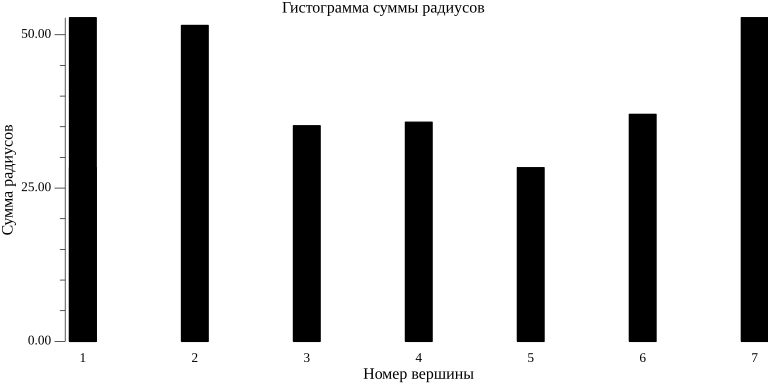
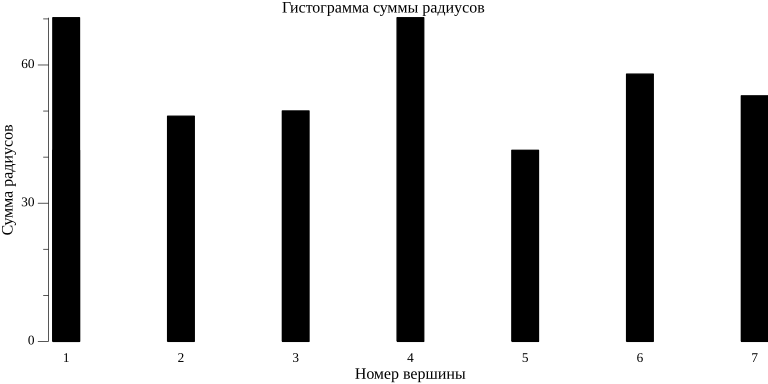
ВСЁ

diff --git a/app/results.html b/app/results.html
@@ -8,3 +8,44 @@
 </head>
 <body>
 	<h1>Результаты</h1>
+
+	<h2>Исходная таблица данных</h2>
+	<table border="1">
+		<tr><th>Множество рёбер</th><th>Дата</th><th></th><th></th><th></th><th></th><th></th><th>Дата</th><th></th><th></th><th></th><th></th><th></th><th>Дата</th><th></th><th></th><th></th><th></th><th></th><th>Дата</th><th></th><th></th><th></th><th></th><th></th><th>Дата</th><th></th><th></th><th></th><th></th><th></th></tr><tr><td></td><td>2024-06-12</td><td></td><td></td><td></td><td></td><td></td><td>2024-06-09</td><td></td><td></td><td></td><td></td><td></td><td>2024-06-06</td><td></td><td></td><td></td><td></td><td></td><td>2024-06-03</td><td></td><td></td><td></td><td></td><td></td><td>2024-05-31</td><td></td><td></td><td></td><td></td><td></td></tr><tr><td></td><td>Время</td><td></td><td></td><td></td><td></td><td></td><td>Время</td><td></td><td></td><td></td><td></td><td></td><td>Время</td><td></td><td></td><td></td><td></td><td></td><td>Время</td><td></td><td></td><td></td><td></td><td></td><td>Время</td><td></td><td></td><td></td><td></td><td></td></tr><tr><td></td><td>09:00</td><td>12:00</td><td>15:00</td><td>18:00</td><td>20:00</td><td>23:00</td><td>09:00</td><td>12:00</td><td>15:00</td><td>18:00</td><td>20:00</td><td>23:00</td><td>09:00</td><td>12:00</td><td>15:00</td><td>18:00</td><td>20:00</td><td>23:00</td><td>09:00</td><td>12:00</td><td>15:00</td><td>18:00</td><td>20:00</td><td>23:00</td><td>09:00</td><td>12:00</td><td>15:00</td><td>18:00</td><td>20:00</td><td>23:00</td></tr><tr><td>1:2</td><td>5</td><td>5</td><td>5</td><td>6</td><td>6</td><td>5</td><td>5</td><td>6</td><td>6</td><td>6</td><td>5</td><td>5</td><td>6</td><td>5</td><td>5</td><td>6</td><td>6</td><td>5</td><td>5</td><td>5</td><td>5</td><td>6</td><td>6</td><td>5</td><td>6</td><td>6</td><td>5</td><td>6</td><td>6</td><td>5</td></tr><tr><td>2:3</td><td>5</td><td>5</td><td>5</td><td>5</td><td>5</td><td>4</td><td>4</td><td>5</td><td>5</td><td>6</td><td>5</td><td>4</td><td>5</td><td>5</td><td>6</td><td>6</td><td>5</td><td>5</td><td>4</td><td>4</td><td>4</td><td>5</td><td>6</td><td>5</td><td>5</td><td>5</td><td>5</td><td>4</td><td>5</td><td>4</td></tr><tr><td>2:5</td><td>5</td><td>5</td><td>6</td><td>6</td><td>5</td><td>4</td><td>5</td><td>6</td><td>5</td><td>5</td><td>6</td><td>5</td><td>5</td><td>5</td><td>6</td><td>5</td><td>6</td><td>5</td><td>5</td><td>6</td><td>6</td><td>5</td><td>6</td><td>5</td><td>5</td><td>5</td><td>5</td><td>5</td><td>6</td><td>4</td></tr><tr><td>3:4</td><td>8</td><td>9</td><td>9</td><td>8</td><td>8</td><td>8</td><td>9</td><td>9</td><td>9</td><td>9</td><td>8</td><td>8</td><td>10</td><td>9</td><td>9</td><td>11</td><td>10</td><td>8</td><td>9</td><td>9</td><td>9</td><td>10</td><td>8</td><td>8</td><td>9</td><td>9</td><td>9</td><td>9</td><td>9</td><td>8</td></tr><tr><td>4:6</td><td>3</td><td>3</td><td>3</td><td>4</td><td>3</td><td>3</td><td>3</td><td>4</td><td>4</td><td>3</td><td>3</td><td>3</td><td>4</td><td>4</td><td>3</td><td>4</td><td>3</td><td>3</td><td>3</td><td>3</td><td>4</td><td>4</td><td>4</td><td>3</td><td>4</td><td>3</td><td>3</td><td>4</td><td>3</td><td>3</td></tr><tr><td>5:6</td><td>4</td><td>4</td><td>4</td><td>5</td><td>4</td><td>4</td><td>4</td><td>4</td><td>5</td><td>5</td><td>4</td><td>4</td><td>4</td><td>5</td><td>5</td><td>4</td><td>4</td><td>4</td><td>4</td><td>4</td><td>4</td><td>5</td><td>5</td><td>4</td><td>4</td><td>4</td><td>4</td><td>5</td><td>5</td><td>5</td></tr><tr><td>5:7</td><td>3</td><td>3</td><td>3</td><td>4</td><td>4</td><td>3</td><td>3</td><td>3</td><td>3</td><td>4</td><td>3</td><td>3</td><td>3</td><td>3</td><td>4</td><td>5</td><td>4</td><td>3</td><td>3</td><td>4</td><td>3</td><td>5</td><td>4</td><td>3</td><td>3</td><td>3</td><td>3</td><td>4</td><td>3</td><td>4</td></tr><tr><td>6:7</td><td>4</td><td>5</td><td>5</td><td>5</td><td>5</td><td>4</td><td>5</td><td>5</td><td>5</td><td>4</td><td>5</td><td>5</td><td>5</td><td>4</td><td>4</td><td>4</td><td>5</td><td>5</td><td>5</td><td>4</td><td>5</td><td>5</td><td>4</td><td>5</td><td>5</td><td>4</td><td>5</td><td>5</td><td>4</td><td>4</td></tr>
+	</table>
+
+	<h2>Результаты 1</h2>
+	<table border="1">
+		<tr><th>ребро</th><th>µ</th><th>σ</th><th>µ+σ</th><th>µ-σ</th><th>O1</th><th>O2</th><th>O3</th><th>O4</th><th>Хи2 норм.</th><th>вероятность</th></tr><tr><td>1:2</td><td>5.47</td><td>0.51</td><td>4.96</td><td>5.97</td><td>0.00</td><td>16.00</td><td>0.00</td><td>14.00</td><td>35.93</td><td>0.00</td></tr><tr><td>2:3</td><td>4.87</td><td>0.63</td><td>4.24</td><td>5.50</td><td>8.00</td><td>0.00</td><td>18.00</td><td>4.00</td><td>18.43</td><td>0.00</td></tr><tr><td>2:5</td><td>5.27</td><td>0.58</td><td>4.68</td><td>5.85</td><td>2.00</td><td>18.00</td><td>0.00</td><td>10.00</td><td>23.43</td><td>0.00</td></tr><tr><td>3:4</td><td>8.83</td><td>0.75</td><td>8.09</td><td>9.58</td><td>10.00</td><td>0.00</td><td>16.00</td><td>4.00</td><td>19.26</td><td>0.00</td></tr><tr><td>4:6</td><td>3.37</td><td>0.49</td><td>2.88</td><td>3.86</td><td>0.00</td><td>19.00</td><td>0.00</td><td>11.00</td><td>30.60</td><td>0.00</td></tr><tr><td>5:6</td><td>4.33</td><td>0.48</td><td>3.85</td><td>4.81</td><td>0.00</td><td>20.00</td><td>0.00</td><td>10.00</td><td>30.05</td><td>0.00</td></tr><tr><td>5:7</td><td>3.43</td><td>0.63</td><td>2.81</td><td>4.06</td><td>0.00</td><td>19.00</td><td>9.00</td><td>2.00</td><td>14.17</td><td>0.00</td></tr><tr><td>6:7</td><td>4.63</td><td>0.49</td><td>4.14</td><td>5.12</td><td>11.00</td><td>0.00</td><td>19.00</td><td>0.00</td><td>30.60</td><td>0.00</td></tr>
+	</table>
+
+	<h2>Результаты 2</h2>
+	<table border="1">
+		<tr><th>ребро</th><th>µ</th><th>σ</th><th>a</th><th>b</th><th>O1</th><th>O2</th><th>O3</th><th>O4</th><th>Хи2 равн.</th><th>вероятность</th></tr><tr><td>1:2</td><td>5.47</td><td>0.51</td><td>4.59</td><td>13.41</td><td>0.00</td><td>16.00</td><td>14.00</td><td>0.00</td><td>0.75</td><td>0.39</td></tr><tr><td>2:3</td><td>4.87</td><td>0.63</td><td>3.78</td><td>11.41</td><td>0.00</td><td>8.00</td><td>22.00</td><td>0.00</td><td>7.28</td><td>0.01</td></tr><tr><td>2:5</td><td>5.27</td><td>0.58</td><td>4.26</td><td>12.64</td><td>2.00</td><td>18.00</td><td>10.00</td><td>0.00</td><td>12.18</td><td>0.00</td></tr><tr><td>3:4</td><td>8.83</td><td>0.75</td><td>7.54</td><td>21.89</td><td>0.00</td><td>10.00</td><td>20.00</td><td>0.00</td><td>4.01</td><td>0.05</td></tr><tr><td>4:6</td><td>3.37</td><td>0.49</td><td>2.52</td><td>7.73</td><td>0.00</td><td>19.00</td><td>11.00</td><td>0.00</td><td>2.79</td><td>0.09</td></tr><tr><td>5:6</td><td>4.33</td><td>0.48</td><td>3.50</td><td>10.40</td><td>0.00</td><td>20.00</td><td>10.00</td><td>0.00</td><td>4.01</td><td>0.05</td></tr><tr><td>5:7</td><td>3.43</td><td>0.63</td><td>2.35</td><td>7.50</td><td>0.00</td><td>19.00</td><td>11.00</td><td>0.00</td><td>2.79</td><td>0.09</td></tr><tr><td>6:7</td><td>4.63</td><td>0.49</td><td>3.78</td><td>11.19</td><td>0.00</td><td>11.00</td><td>19.00</td><td>0.00</td><td>2.79</td><td>0.09</td></tr>
+	</table>
+
+	<h2>Распределение</h2>
+	<table border="1">
+		<tr><th>Ребро</th><th>Распределение</th><th>E</th><th>Omega</th><th>Рандом</th><th>a</th><th>b</th></tr><tr><td>1:2</td><td>равномерное</td><td>0</td><td>0</td><td>0</td><td>4.59</td><td>13.41</td></tr><tr><td>2:3</td><td>равномерное</td><td>0</td><td>0</td><td>0</td><td>3.78</td><td>11.41</td></tr><tr><td>2:5</td><td>равномерное</td><td>0</td><td>0</td><td>0</td><td>4.26</td><td>12.64</td></tr><tr><td>3:4</td><td>равномерное</td><td>0</td><td>0</td><td>0</td><td>7.54</td><td>21.89</td></tr><tr><td>4:6</td><td>равномерное</td><td>0</td><td>0</td><td>0</td><td>2.52</td><td>7.73</td></tr><tr><td>5:6</td><td>равномерное</td><td>0</td><td>0</td><td>0</td><td>3.50</td><td>10.40</td></tr><tr><td>5:7</td><td>равномерное</td><td>0</td><td>0</td><td>0</td><td>2.35</td><td>7.50</td></tr><tr><td>6:7</td><td>равномерное</td><td>0</td><td>0</td><td>0</td><td>3.78</td><td>11.19</td></tr>
+	</table>
+
+	<h2>Случайное число</h2>
+	<p>0.691342</p>
+
+	<h2>Случайная сеть</h2>
+	<table border="1">
+		<tr><th></th><th>1</th><th>2</th><th>3</th><th>4</th><th>5</th><th>6</th><th>7</th></tr><tr><td>1</td><td>0</td><td>10.69</td><td>0</td><td>0</td><td>0</td><td>0</td><td>0</td></tr><tr><td>2</td><td>10.69</td><td>0</td><td>9.05</td><td>0</td><td>10.05</td><td>0</td><td>0</td></tr><tr><td>3</td><td>0</td><td>9.05</td><td>0</td><td>17.46</td><td>0</td><td>0</td><td>0</td></tr><tr><td>4</td><td>0</td><td>0</td><td>17.46</td><td>0</td><td>0</td><td>6.12</td><td>0</td></tr><tr><td>5</td><td>0</td><td>10.05</td><td>0</td><td>0</td><td>0</td><td>8.27</td><td>5.91</td></tr><tr><td>6</td><td>0</td><td>0</td><td>0</td><td>6.12</td><td>8.27</td><td>0</td><td>8.90</td></tr><tr><td>7</td><td>0</td><td>0</td><td>0</td><td>0</td><td>5.91</td><td>8.90</td><td>0</td></tr>
+	</table>
+
+	<h2>Матрица расстояний</h2>
+	<table border="1">
+		<tr><th></th><th>1</th><th>2</th><th>3</th><th>4</th><th>5</th><th>6</th><th>7</th></tr><tr><td>1</td><td>0.00</td><td>10.69</td><td>19.74</td><td>35.13</td><td>20.74</td><td>29.01</td><td>26.65</td></tr><tr><td>2</td><td>10.69</td><td>0.00</td><td>9.05</td><td>24.44</td><td>10.05</td><td>18.32</td><td>15.96</td></tr><tr><td>3</td><td>19.74</td><td>9.05</td><td>0.00</td><td>17.46</td><td>19.10</td><td>23.58</td><td>25.01</td></tr><tr><td>4</td><td>35.13</td><td>24.44</td><td>17.46</td><td>0.00</td><td>14.39</td><td>6.12</td><td>15.02</td></tr><tr><td>5</td><td>20.74</td><td>10.05</td><td>19.10</td><td>14.39</td><td>0.00</td><td>8.27</td><td>5.91</td></tr><tr><td>6</td><td>29.01</td><td>18.32</td><td>23.58</td><td>6.12</td><td>8.27</td><td>0.00</td><td>8.90</td></tr><tr><td>7</td><td>26.65</td><td>15.96</td><td>25.01</td><td>15.02</td><td>5.91</td><td>8.90</td><td>0.00</td></tr>
+	</table>
+
+	<h2>Результаты модуляции</h2>
+	<table border="1">
+		<tr><th>Вершина</th><th>Внешний радиус</th><th>Внутренний радиус</th><th>Сумма радиусов</th></tr><tr><td>1</td><td>35.13</td><td>35.13</td><td>70.26</td></tr><tr><td>2</td><td>24.44</td><td>24.44</td><td>48.88</td></tr><tr><td>3</td><td>25.01</td><td>25.01</td><td>50.02</td></tr><tr><td>4</td><td>35.13</td><td>35.13</td><td>70.26</td></tr><tr><td><b>5</b></td><td><b>20.74</b></td><td><b>20.74</b></td><td><b>41.48</b></td></tr><tr><td>6</td><td>29.01</td><td>29.01</td><td>58.02</td></tr><tr><td>7</td><td>26.65</td><td>26.65</td><td>53.30</td></tr>
+	</table>
+
+	<h2>Гистограмма суммы радиусов</h2>
+	<img src="histogram.png" alt="Гистограмма суммы радиусов">

diff --git a/app/main.go b/app/main.go
@@ -26,60 +26,71 @@ var peaks []string
 func main() {
 	createHTMLFile("Результаты")
 
-	// Ожидание выбора пользователя
-	var choice string
-	fmt.Println("Введите '1' для загрузки таблицы из файловой системы, '2' для генерации новой таблицы или '3' для выбора файла из директории 'data':")
-	fmt.Scan(&choice)
-
-	var data [][]string
-	var err error
-
-	switch choice {
-	case "1":
-		_, err = os.Stat("./data/new_data.csv")
-		if os.IsNotExist(err) {
-			log.Fatalf("Файл не существует: %v", "./data/new_data.csv")
-		}
-		data, err = loadDataFromFile("./data/new_data.csv")
+	// Проверка наличия папки и создание её, если нет
+	path := "./data"
+	if _, err := os.Stat(path); os.IsNotExist(err) {
+		err := os.Mkdir(path, os.ModePerm)
 		if err != nil {
-			log.Fatalf("Ошибка при загрузке данных из файла: %v", err)
+			log.Fatalf("Ошибка при создании директории: %v", err)
 		}
-	case "2":
+		fmt.Println("Директория 'data' создана. Начинаем процесс создания новых данных.")
 		generateNewTable()
-		data, err = loadDataFromFile("./data/new_data.csv")
-		if err != nil {
-			log.Fatalf("Ошибка при загрузке данных из файла: %v", err)
-		}
-	case "3":
-		files, err := listFilesInDirectory("./data")
+		processData("./data/new_data.csv")
+	} else {
+		files, err := listFilesInDirectory(path)
 		if err != nil {
 			log.Fatalf("Ошибка при получении списка файлов: %v", err)
 		}
-		fmt.Println("Доступные файлы:")
-		for i, file := range files {
-			fmt.Printf("%d: %s\n", i+1, file)
-		}
-		var fileChoice int
-		fmt.Println("Введите номер файла, который вы хотите загрузить:")
-		fmt.Scan(&fileChoice)
-		if fileChoice < 1 || fileChoice > len(files) {
-			log.Fatalf("Некорректный выбор файла")
-		}
-		data, err = loadDataFromFile(filepath.Join("./data", files[fileChoice-1]))
-		if err != nil {
-			log.Fatalf("Ошибка при загрузке данных из файла: %v", err)
-		}
-	default:
-		log.Fatalf("Некорректный выбор: %s", choice)
-	}
 
+		if len(files) == 0 {
+			fmt.Println("Директория 'data' пуста. Начинаем процесс создания новых данных.")
+			generateNewTable()
+			processData("./data/new_data.csv")
+		} else {
+			var choice string
+			fmt.Println("Директория 'data' не пуста.")
+			fmt.Println("Введите '1' для выбора файла или '2' для создания новой таблицы:")
+			fmt.Scan(&choice)
+
+			if choice == "1" {
+				fmt.Println("Доступные файлы:")
+				for i, file := range files {
+					fmt.Printf("%d: %s\n", i+1, file)
+				}
+				var fileChoice int
+				fmt.Println("Введите номер файла, который вы хотите загрузить:")
+				fmt.Scan(&fileChoice)
+				if fileChoice < 1 || fileChoice > len(files) {
+					log.Fatalf("Некорректный выбор файла")
+				}
+				selectedFile := filepath.Join(path, files[fileChoice-1])
+				_, err := loadDataFromFile(selectedFile)
+				if err != nil {
+					log.Fatalf("Ошибка при загрузке данных из файла: %v", err)
+				}
+				processData(selectedFile)
+			} else if choice == "2" {
+				generateNewTable()
+				processData("./data/new_data.csv")
+			} else {
+				log.Fatalf("Некорректный выбор: %s", choice)
+			}
+		}
+	}
+}
+
+func processData(filePath string) {
 	// Вывод таблицы в браузер
+	data, err := loadDataFromFile(filePath)
+	if err != nil {
+		log.Fatalf("Ошибка при загрузке данных из файла: %v", err)
+	}
 	appendTableToHTML("Исходная таблица данных", data)
 
 	// Повторное чтение данных из файла
-	dataFile, err := os.Open("./data/new_data.csv")
+	dataFile, err := os.Open(filePath)
 	if err != nil {
-		log.Fatalf("Unable to read input file %s: %v", "./data/new_data.csv", err)
+		log.Fatalf("Unable to read input file %s: %v", filePath, err)
 	}
 	defer dataFile.Close()
 

diff --git a/app/calculation.go b/app/calculation.go
@@ -354,7 +354,7 @@ func calculateDistribution(results1, results2 [][]string, edges []string) [][]st
 	for i, edge := range edges {
 		pN, _ := strconv.ParseFloat(results1[i+1][9], 64)
 		pR, _ := strconv.ParseFloat(results2[i+1][9], 64)
-		if pN > pR {
+		if !(pN > pR) {
 			randValue := math.Sqrt(-2*math.Log(rand.Float64())) * math.Cos(2*math.Pi*rand.Float64())
 			distribution = append(distribution, []string{
 				edge,
@@ -412,37 +412,3 @@ func calculateInternalDistances(distanceMatrix [][]string) []float64 {
 	}
 	return internalDistances
 }
-
-/*
-func calculateInternalDistances(distanceMatrix [][]string) []float64 {
-	matrixSize := len(distanceMatrix)
-	internalDistances := make([]float64, matrixSize)
-	for i := 0; i < matrixSize; i++ {
-		maxDist := 0.0
-		for j := 0; j < matrixSize; j++ {
-			dist, _ := strconv.ParseFloat(distanceMatrix[i][j], 64)
-			if dist > maxDist {
-				maxDist = dist
-			}
-		}
-		internalDistances[i] = maxDist
-	}
-	return internalDistances
-}
-
-func calculateExternalDistances(distanceMatrix [][]string) []float64 {
-	matrixSize := len(distanceMatrix)
-	externalDistances := make([]float64, matrixSize)
-	for j := 0; j < matrixSize; j++ {
-		maxDist := 0.0
-		for i := 0; i < matrixSize; i++ {
-			dist, _ := strconv.ParseFloat(distanceMatrix[i][j], 64)
-			if dist > maxDist {
-				maxDist = dist
-			}
-		}
-		externalDistances[j] = maxDist
-	}
-	return externalDistances
-}
-*/
